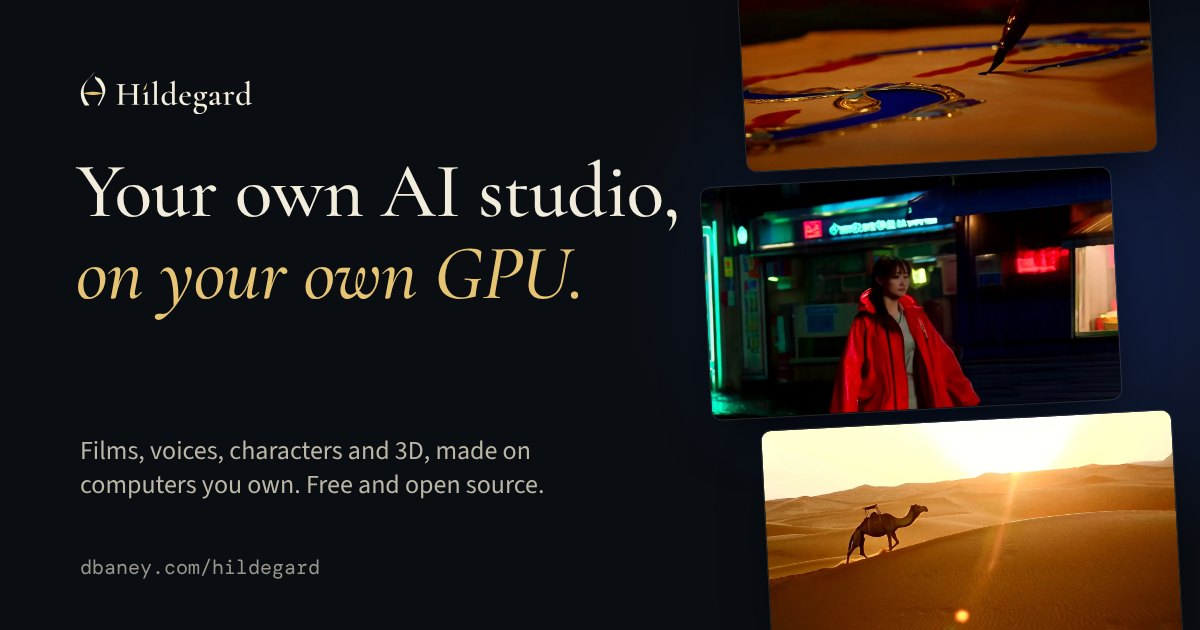
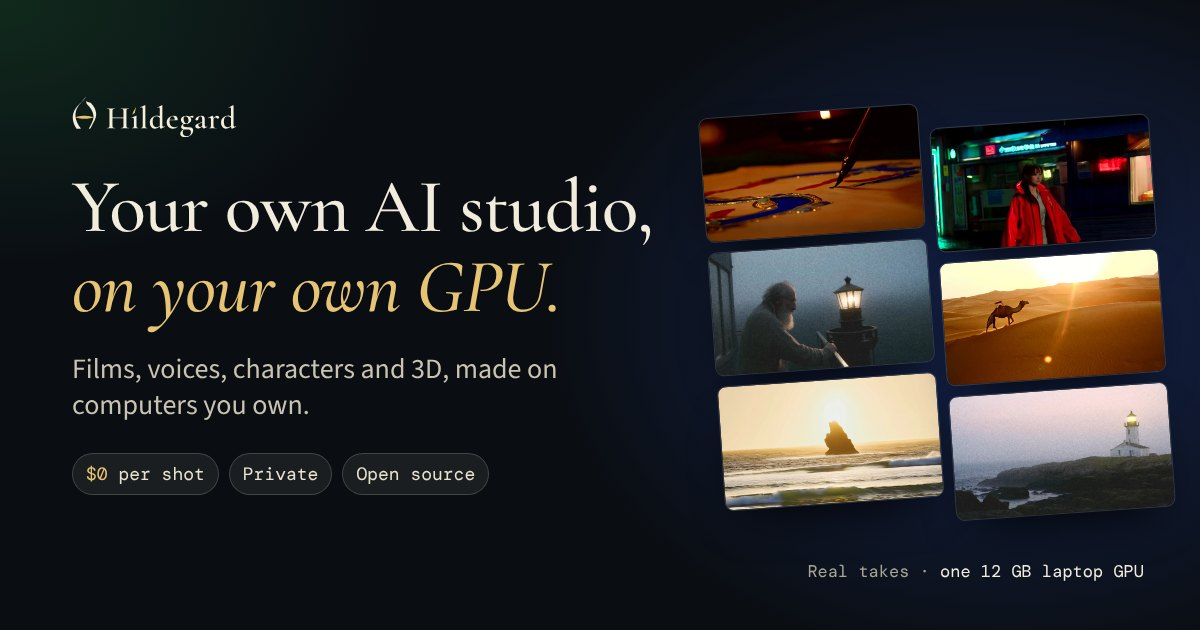
Make the link preview carry the whole message on X
The share card now shows six real frames as a contact sheet beside the
headline, with "$0 per shot", "Private" and "Open source", and keeps the
bottom-left corner clear for the site name X lays over it. The tags gain
og:image:type and secure_url, a ?v= so X fetches the new card instead of its
cached one, and a site test that checks every tag and the image's size. The
repository's social preview is rendered from the same design.

Claude-Session: https://claude.ai/code/session_013Y2SrfWmyf2NWghnjrD4WG

diff --git a/site/index.html b/site/index.html
@@ -20,15 +20,17 @@
 <meta property="og:title" content="Hildegard: your own AI studio, on your own GPU">
 <meta property="og:description" content="Films, voices, characters and 3D, made on computers you own. Nothing leaves them, and nothing costs money per shot. Free and open source.">
 <meta property="og:url" content="https://dbaney.com/hildegard/">
-<meta property="og:image" content="https://dbaney.com/hildegard/img/og.jpg">
+<meta property="og:image" content="https://dbaney.com/hildegard/img/og.jpg?v=2">
+<meta property="og:image:secure_url" content="https://dbaney.com/hildegard/img/og.jpg?v=2">
+<meta property="og:image:type" content="image/jpeg">
 <meta property="og:image:width" content="1200">
 <meta property="og:image:height" content="630">
-<meta property="og:image:alt" content="Three frames rendered with Hildegard beside the words: your own AI studio, on your own GPU.">
+<meta property="og:image:alt" content="Six frames from real Hildegard takes beside the words: your own AI studio, on your own GPU. $0 per shot, private, open source.">
 <meta name="twitter:card" content="summary_large_image">
 <meta name="twitter:title" content="Hildegard: your own AI studio, on your own GPU">
-<meta name="twitter:description" content="Films, voices, characters and 3D, made on computers you own. Free and open source.">
-<meta name="twitter:image" content="https://dbaney.com/hildegard/img/og.jpg">
-<meta name="twitter:image:alt" content="Three frames rendered with Hildegard beside the words: your own AI studio, on your own GPU.">
+<meta name="twitter:description" content="Films, voices, characters and 3D, made on computers you own. No credits, nothing leaves them, free and open source.">
+<meta name="twitter:image" content="https://dbaney.com/hildegard/img/og.jpg?v=2">
+<meta name="twitter:image:alt" content="Six frames from real Hildegard takes beside the words: your own AI studio, on your own GPU. $0 per shot, private, open source.">
 <link rel="icon" href="favicon.svg" type="image/svg+xml">
 <link rel="apple-touch-icon" href="img/apple-touch-icon.png">
 <link rel="preload" href="fonts/CormorantGaramond-500.woff2" as="font" type="font/woff2" crossorigin>

diff --git a/apps/studio/e2e-site/site.spec.ts b/apps/studio/e2e-site/site.spec.ts
@@ -188,3 +188,30 @@ test('search engines read the same answers people do', async ({ page }) => {
   for (const state of await page.locator('.room__state').allTextContents())
     expect(['Ready', 'With your AI app', 'Coming']).toContain(state);
 });
+
+// A broken link preview fails silently on X and everywhere else, so the share tags are checked here.
+test('has a full link preview for X and Open Graph', async ({ page }) => {
+  await page.goto('/index.html');
+  const meta = (key: string) =>
+    page.locator(`meta[property="${key}"], meta[name="${key}"]`).first().getAttribute('content');
+  expect(await meta('twitter:card')).toBe('summary_large_image');
+  const image = (await meta('og:image'))!;
+  expect(await meta('twitter:image')).toBe(image);
+  expect(image).toMatch(/^https:\/\/dbaney\.com\/hildegard\/img\/og\.jpg\?v=\d+$/);
+  for (const key of ['og:title', 'og:description', 'og:image:alt', 'twitter:title', 'twitter:description'])
+    expect((await meta(key))?.length, key).toBeGreaterThan(20);
+  expect((await meta('twitter:title'))!.length).toBeLessThanOrEqual(70);
+  expect((await meta('twitter:description'))!.length).toBeLessThanOrEqual(200);
+  // The card itself: the size the tags promise, and small enough for every site that fetches it.
+  const res = await page.request.get('/img/og.jpg');
+  expect(res.headers()['content-type']).toContain('image/jpeg');
+  const body = await res.body();
+  expect(body.length).toBeLessThan(300_000);
+  const size = await page.evaluate(async () => {
+    const img = new Image();
+    img.src = 'img/og.jpg';
+    await img.decode();
+    return [img.naturalWidth, img.naturalHeight];
+  });
+  expect(size).toEqual([Number(await meta('og:image:width')), Number(await meta('og:image:height'))]);
+});

diff --git a/site/README.md b/site/README.md
@@ -36,6 +36,10 @@ path is relative, so it works from any folder, such as `https://dbaney.com/hilde
 - `node scripts/site-images.mjs` renders `img/og.jpg` (the link preview) and `brand/social-preview.jpg` (the GitHub
   repository's, uploaded by hand in Settings › Social preview); `node scripts/app-icons.mjs` renders
   `favicon.svg` and `img/apple-touch-icon.png` from `brand/app-icons/`, with the app's own icons.
+- X keeps a link's card for days by its image address, so after re-rendering `img/og.jpg` raise the `?v=` on
+  `og:image`, `og:image:secure_url` and `twitter:image` in `index.html`. X shows the image alone with the site's name
+  over its bottom-left corner, so the card carries the whole message and keeps that corner clear. Check it with
+  [opengraph.xyz](https://www.opengraph.xyz/) after it deploys.
 - `pnpm --filter @hildegard/studio e2e:site` checks it in both themes, on desktop and a 360 px phone: no sideways
   scroll, accessibility (axe), the OS tabs and the copy buttons. Set `SITE_SHOTS=<folder>` to save screenshots.
 
